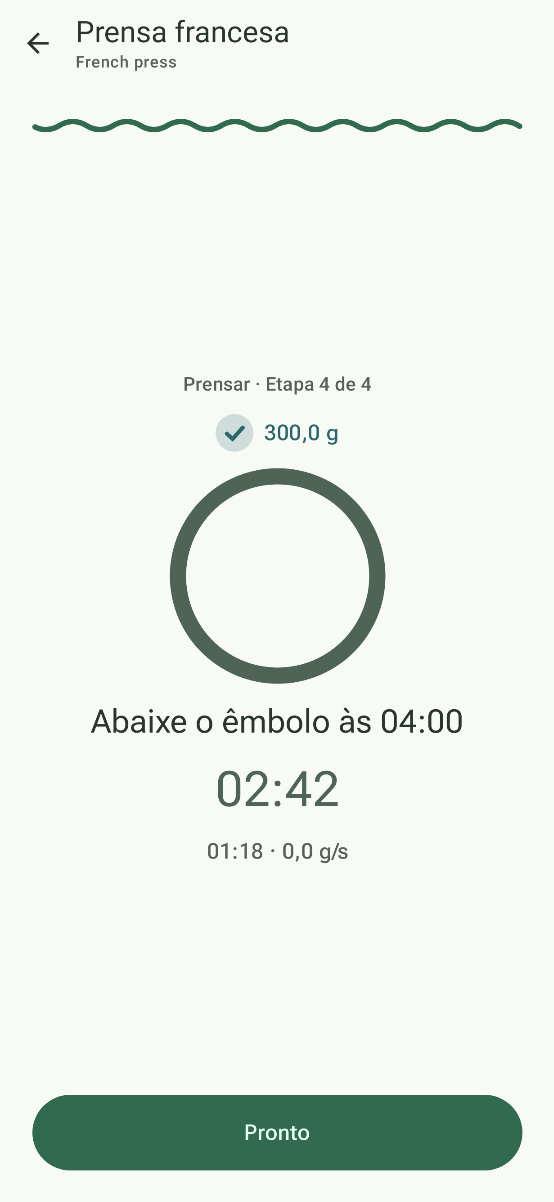
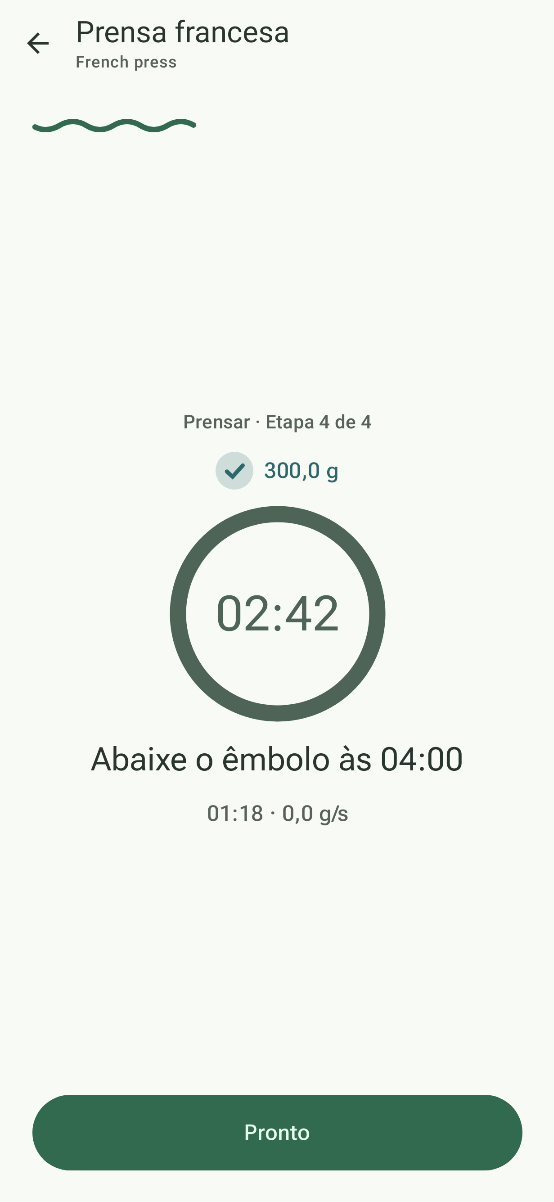
fix: align French press guide progress

Changed region(s): [[0.1534, 0.3078, 0.8285, 0.7388], [0.3682, 0.0923, 0.9513, 0.1231]]

diff --git a/app/src/main/java/io/github/mateuxlucax/caparao/ui/brew/GuidedStep.kt b/app/src/main/java/io/github/mateuxlucax/caparao/ui/brew/GuidedStep.kt
@@ -36,6 +36,7 @@ import androidx.compose.ui.geometry.Size
 import androidx.compose.ui.geometry.CornerRadius
 import androidx.compose.ui.graphics.Color
 import androidx.compose.ui.graphics.Path
+import androidx.compose.ui.graphics.StrokeJoin
 import androidx.compose.ui.graphics.StrokeCap
 import androidx.compose.ui.geometry.Rect
 import androidx.compose.material3.CircularWavyProgressIndicator
@@ -75,7 +76,7 @@ fun GuidedStep(state: BrewUiState, onDone: () -> Unit) {
     val steps = state.steps
     val density = LocalDensity.current
     Column(Modifier.fillMaxSize().padding(24.dp), horizontalAlignment = Alignment.CenterHorizontally) {
-        StepProgress(steps.size, guide.index)
+        StepProgress(guideProgress(state.mode, steps, guide.index, state.elapsedMs))
         AnimatedContent(
             guide.index,
             Modifier.weight(1f).fillMaxWidth(),
@@ -123,9 +124,18 @@ private fun Step(step: RecipeStep, index: Int, count: Int, guide: StepState, sta
     previousTarget?.let { ReachedCheck("${Format.grams(it, locale)} $g") }
     val target = step.targetWeightGrams
     if (step.kind == StepKind.PRESS) {
-        CountdownRing(guide.progress, color)
+        CountdownRing(guide.progress, color) {
+            guide.dueInMs?.let {
+                Text(
+                    Format.timer(seconds(it)),
+                    style = MaterialTheme.typography.displaySmall.merge(Tabular),
+                    color = color,
+                    maxLines = 1,
+                    textAlign = TextAlign.Center,
+                )
+            }
+        }
         Text(stringResource(R.string.guide_press_at, Format.timer((step.targetAtMs / 1000).toInt())), style = MaterialTheme.typography.headlineSmall, textAlign = TextAlign.Center)
-        guide.dueInMs?.let { Text(Format.timer(seconds(it)), style = MaterialTheme.typography.displaySmall.merge(Tabular), color = color) }
     } else if (step.kind.pours && target != null) {
         val fill by animateFloatAsState((state.weightGrams / target).coerceIn(0.0, 1.1).toFloat(), tween(100, easing = LinearEasing), label = "fill")
         CupToTarget(fill, color)
@@ -249,7 +259,17 @@ private fun FrenchPressPlungerAnimation() {
                 cornerRadius = CornerRadius(7f, 7f),
                 style = Stroke(width = 3f),
             )
-            drawLine(colors.outline, Offset(right, 42f), Offset(100f, 50f), strokeWidth = 3f, cap = StrokeCap.Round)
+            val handle = Path().apply {
+                moveTo(right, 40f)
+                cubicTo(101f, 40f, 109f, 44f, 109f, 53f)
+                lineTo(109f, 77f)
+                cubicTo(109f, 86f, 101f, 90f, right, 90f)
+            }
+            drawPath(
+                handle,
+                colors.outline,
+                style = Stroke(width = 3f, cap = StrokeCap.Round, join = StrokeJoin.Round),
+            )
             val plateY = 42f + 42f * progress.value
             drawLine(colors.primary, Offset(60f, 8f), Offset(60f, plateY), strokeWidth = 4f, cap = StrokeCap.Round)
             drawLine(colors.primary, Offset(42f, plateY), Offset(78f, plateY), strokeWidth = 6f, cap = StrokeCap.Round)
@@ -275,11 +295,11 @@ private fun seconds(ms: Long) = ceil(ms / 1000.0).toInt()
 
 /** How far through the steps: a wave up to the current one. */
 @Composable
-private fun StepProgress(count: Int, current: Int) {
-    val progress by animateFloatAsState((current + 1f) / count, Motion.standard(), label = "steps")
+private fun StepProgress(progress: Float) {
+    val shown by animateFloatAsState(progress, Motion.standard(), label = "steps")
     // Only the wave, always moving: no track and no stop dot after it.
     LinearWavyProgressIndicator(
-        progress = { progress },
+        progress = { shown },
         modifier = Modifier.fillMaxWidth().padding(bottom = 8.dp),
         trackColor = Color.Transparent,
         stopSize = 0.dp,
@@ -326,16 +346,19 @@ private fun CupToTarget(fill: Float, color: Color) {
 
 /** A wavy ring that empties as the wait runs out. */
 @Composable
-private fun CountdownRing(progress: Float, color: Color) {
+private fun CountdownRing(progress: Float, color: Color, centerContent: @Composable () -> Unit = {}) {
     val shown by animateFloatAsState(progress, tween(200, easing = LinearEasing), label = "ring")
-    CircularWavyProgressIndicator(
-        progress = { 1f - shown },
-        modifier = Modifier.size(160.dp),
-        color = color,
-        trackColor = MaterialTheme.colorScheme.surfaceContainerHighest,
-        stroke = Stroke(with(LocalDensity.current) { 12.dp.toPx() }, cap = StrokeCap.Round),
-        trackStroke = Stroke(with(LocalDensity.current) { 12.dp.toPx() }, cap = StrokeCap.Round),
-    )
+    Box(Modifier.size(160.dp), contentAlignment = Alignment.Center) {
+        CircularWavyProgressIndicator(
+            progress = { 1f - shown },
+            modifier = Modifier.fillMaxSize(),
+            color = color,
+            trackColor = MaterialTheme.colorScheme.surfaceContainerHighest,
+            stroke = Stroke(with(LocalDensity.current) { 12.dp.toPx() }, cap = StrokeCap.Round),
+            trackStroke = Stroke(with(LocalDensity.current) { 12.dp.toPx() }, cap = StrokeCap.Round),
+        )
+        centerContent()
+    }
 }
 
 @Composable

diff --git a/app/src/test/java/io/github/mateuxlucax/caparao/ui/brew/GuideProgressTest.kt b/app/src/test/java/io/github/mateuxlucax/caparao/ui/brew/GuideProgressTest.kt
@@ -1,0 +1,56 @@
+package io.github.mateuxlucax.caparao.ui.brew
+
+import io.github.mateuxlucax.caparao.model.BrewMode
+import io.github.mateuxlucax.caparao.model.RecipeStep
+import io.github.mateuxlucax.caparao.model.StepKind
+import org.junit.Assert.assertEquals
+import org.junit.Test
+
+class GuideProgressTest {
+    private val frenchPressSteps = listOf(
+        RecipeStep(StepKind.BLOOM, 100.0, 0),
+        RecipeStep(StepKind.WAIT, null, 60_000),
+        RecipeStep(StepKind.POUR, 300.0, 60_000),
+        RecipeStep(StepKind.PRESS, null, 240_000),
+    )
+
+    @Test
+    fun frenchPressLineTracksElapsedTimeAgainstTheTerminalPressTarget() {
+        assertEquals(0f, guideProgress(BrewMode.FRENCH_PRESS, frenchPressSteps, currentIndex = 0, elapsedMs = 0), 0.001f)
+        assertEquals(0.325f, guideProgress(BrewMode.FRENCH_PRESS, frenchPressSteps, currentIndex = 3, elapsedMs = 78_000), 0.001f)
+        assertEquals(1f, guideProgress(BrewMode.FRENCH_PRESS, frenchPressSteps, currentIndex = 3, elapsedMs = 240_000), 0.001f)
+        assertEquals(1f, guideProgress(BrewMode.FRENCH_PRESS, frenchPressSteps, currentIndex = 4, elapsedMs = 255_000), 0.001f)
+    }
+
+    @Test
+    fun frenchPressProgressUsesTheRecipeTargetAndIgnoresPourProgressAndStepIndex() {
+        val fiveMinuteRecipe = frenchPressSteps.dropLast(1) + RecipeStep(StepKind.PRESS, null, 300_000)
+        val earlyStep = guideProgress(BrewMode.FRENCH_PRESS, fiveMinuteRecipe, currentIndex = 0, elapsedMs = 150_000)
+        val terminalStep = guideProgress(BrewMode.FRENCH_PRESS, fiveMinuteRecipe, currentIndex = 3, elapsedMs = 150_000)
+
+        assertEquals(0.5f, earlyStep, 0.001f)
+        assertEquals(earlyStep, terminalStep, 0.001f)
+    }
+
+    @Test
+    fun frenchPressProgressClampsBeforeAndAfterTheRecipeTarget() {
+        assertEquals(0f, guideProgress(BrewMode.FRENCH_PRESS, frenchPressSteps, currentIndex = 3, elapsedMs = -1), 0.001f)
+        assertEquals(1f, guideProgress(BrewMode.FRENCH_PRESS, frenchPressSteps, currentIndex = 0, elapsedMs = 500_000), 0.001f)
+    }
+
+    @Test
+    fun missingOrNonpositivePressTargetFallsBackToTheExistingStepProgress() {
+        val noPress = frenchPressSteps.dropLast(1)
+        val zeroPress = frenchPressSteps.dropLast(1) + RecipeStep(StepKind.PRESS, null, 0)
+
+        assertEquals(1f, guideProgress(BrewMode.FRENCH_PRESS, noPress, currentIndex = 2, elapsedMs = 150_000), 0.001f)
+        assertEquals(0.75f, guideProgress(BrewMode.FRENCH_PRESS, zeroPress, currentIndex = 2, elapsedMs = 150_000), 0.001f)
+        assertEquals(0f, guideProgress(BrewMode.FRENCH_PRESS, emptyList(), currentIndex = 0, elapsedMs = 0), 0.001f)
+    }
+
+    @Test
+    fun otherModesKeepTheirStepBasedProgress() {
+        assertEquals(0.5f, guideProgress(BrewMode.FILTER, frenchPressSteps, currentIndex = 1, elapsedMs = 120_000), 0.001f)
+        assertEquals(0.75f, guideProgress(BrewMode.ESPRESSO, frenchPressSteps, currentIndex = 2, elapsedMs = 120_000), 0.001f)
+    }
+}

diff --git a/app/src/main/java/io/github/mateuxlucax/caparao/ui/brew/GuideProgress.kt b/app/src/main/java/io/github/mateuxlucax/caparao/ui/brew/GuideProgress.kt
@@ -1,0 +1,20 @@
+package io.github.mateuxlucax.caparao.ui.brew
+
+import io.github.mateuxlucax.caparao.model.BrewMode
+import io.github.mateuxlucax.caparao.model.RecipeStep
+import io.github.mateuxlucax.caparao.model.StepKind
+
+/** The guide line follows the French press's timed brew; other recipes retain their step-based progress. */
+internal fun guideProgress(mode: BrewMode, steps: List<RecipeStep>, currentIndex: Int, elapsedMs: Long): Float {
+    val pressTargetMs = if (mode == BrewMode.FRENCH_PRESS) {
+        steps.lastOrNull()?.takeIf { it.kind == StepKind.PRESS }?.targetAtMs
+    } else {
+        null
+    }
+    if (pressTargetMs != null && pressTargetMs > 0L) {
+        return (elapsedMs.toDouble() / pressTargetMs).toFloat().coerceIn(0f, 1f)
+    }
+
+    if (steps.isEmpty()) return 0f
+    return ((currentIndex + 1f) / steps.size).coerceIn(0f, 1f)
+}
